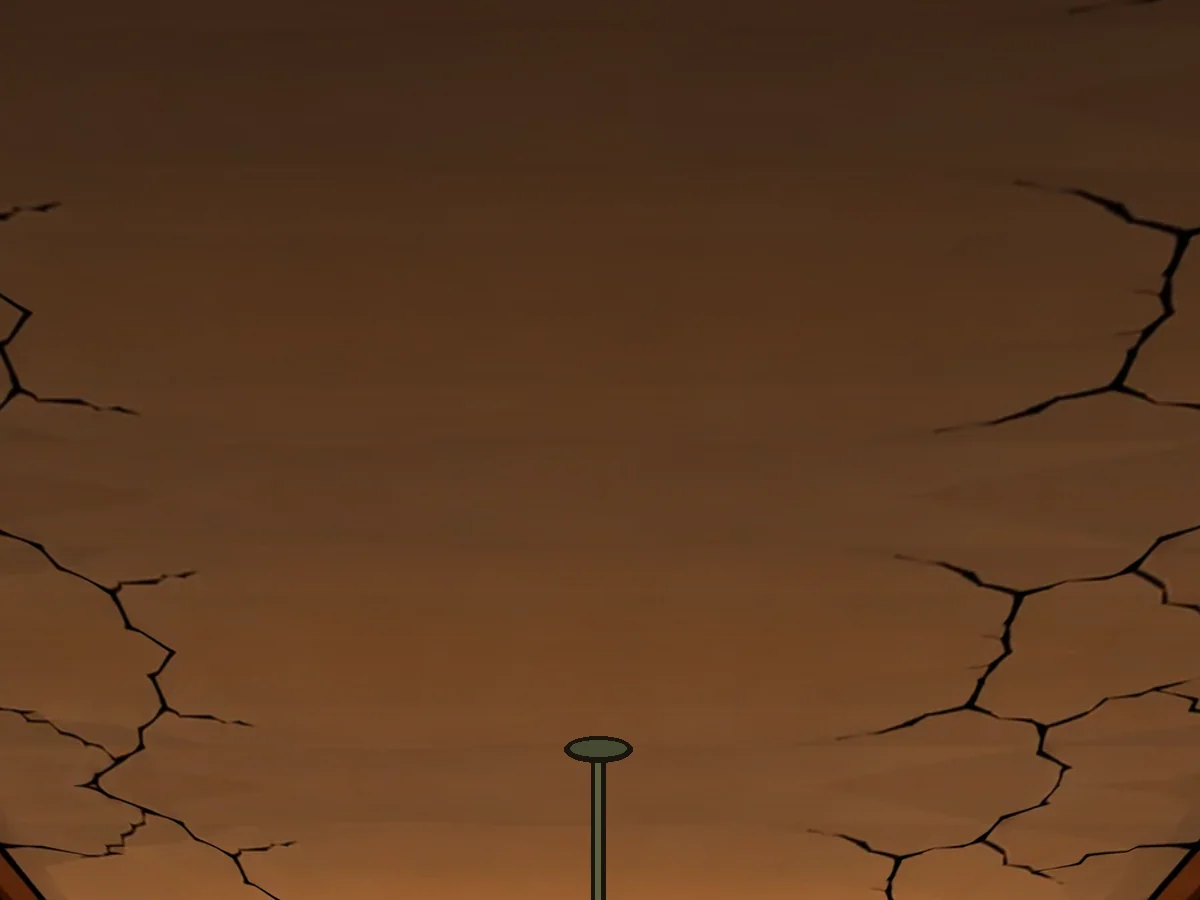
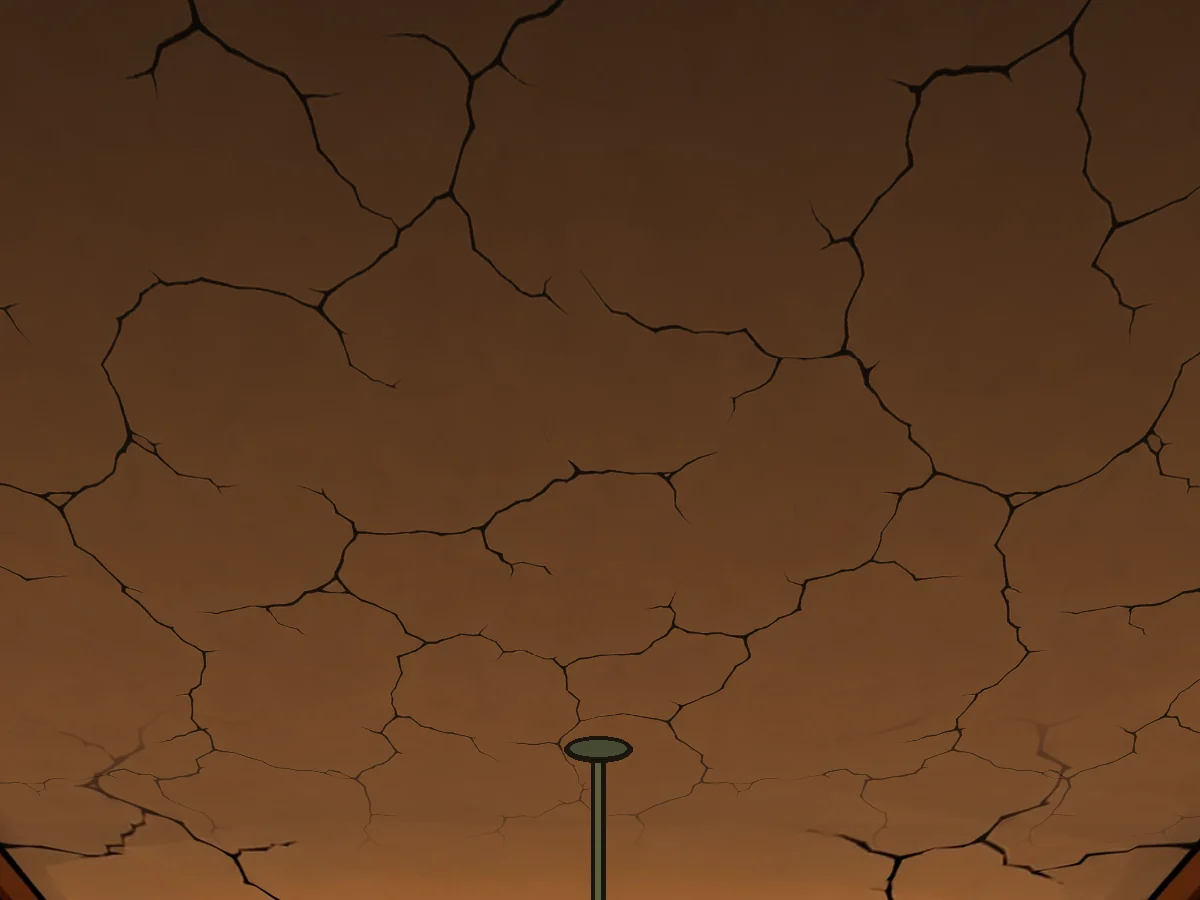
Shop ceiling: drawn plaster texture further up instead of mirrored cracks
tools/shop/source/ceiling-plaster.png (gpt-image-2, from the room's own ceiling band) is laid on the ceiling plane in
the room's perspective between the corner beams; the first band stays the exact mirrored continuation of the picture.

Claude-Session: https://claude.ai/code/session_01E3jaUxUo8xTQNwyakAWMq3

diff --git a/tools/shop/build-ceiling.py b/tools/shop/build-ceiling.py
@@ -4,7 +4,8 @@ top of the screen, so the room goes on upward instead of a hard edge.
 The room is drawn in one-point perspective: the ceiling is a plane whose edges (the two corner beams) run to the
 vanishing point VP. Scaling the picture about VP maps the ceiling onto itself, so every row above the picture is taken
 from the ceiling band of room.webp (rows 0..BAND) scaled about VP; the band is mirrored back and forth in log-distance,
-so there are no seams, and the seam with the picture is exact (row 0 maps onto itself); the band's own top-to-bottom shading is flattened. The ceiling darkens upward
+so there are no seams, and the seam with the picture is exact (row 0 maps onto itself); the band's own top-to-bottom shading is flattened; further up the plaster
+is a drawn tileable texture in the same perspective, so cracks do not repeat. The ceiling darkens upward
 (farther from the lamp), and the lamp cord goes on up to a mount.
 """
 import numpy as np
@@ -12,6 +13,10 @@ from PIL import Image, ImageDraw, ImageFilter
 
 SRC = "public/assets/shop/v2/room.webp"
 OUT = "public/assets/shop/v2/ceiling.webp"
+TEX = "tools/shop/source/ceiling-plaster.png"
+TEX_U, TEX_V = 1150.0, 1_250_000.0     # texture px per (screen px / distance to VP) and per (1 / distance): plaster scale
+LEFT_EDGE = (40.0, 0.777)            # inner edge of the left beam: x = a + b·y (y = row, negative above the picture)
+RIGHT_EDGE = (1150.0, -0.857)
 EXT = 900                   # px above the picture (room.webp is 1200×1680)
 VP = (568.0, 679.0)         # where the corner beams meet (measured on room.webp)
 BAND = 98                   # the ceiling rows above the front beam
@@ -55,6 +60,24 @@ raw = bilinear(room, sx, sy)
 fix = bilinear(flat, sx, sy)
 a = np.clip(w / L, 0, 1)[..., None]
 out = raw * (1 - a) + fix * a
+# past the first band the plaster is a drawn tileable texture (tools/shop/source/ceiling-plaster.png, generated from
+# the room's own ceiling) laid on the ceiling plane in the same perspective: no repeated cracks. Only between the inner
+# edges of the corner beams (lines through VP); colours matched to the band; faded in so the seam stays exact.
+tex = np.asarray(Image.open(TEX).convert("RGB")).astype(np.float32)
+band = room[:BAND, 300:900].reshape(-1, 3)
+tm, ts = tex.reshape(-1, 3).mean(0), tex.reshape(-1, 3).std(0)
+tex = (tex - tm) / ts * band.std(0) + band.mean(0)
+u = (xs - vx) / r * TEX_U
+v = TEX_V / r
+tx = np.mod(u, tex.shape[1] - 1)
+ty = np.mod(v, tex.shape[0] - 1)
+proj = bilinear(tex, tx, ty)
+left = LEFT_EDGE[0] + LEFT_EDGE[1] * y          # inner edges of the beams, x on row y
+right = RIGHT_EDGE[0] + RIGHT_EDGE[1] * y
+inside = np.clip(np.minimum(xs - left, right - xs) / 6.0, 0, 1)
+fade = np.clip((w / L - 0.4) / 1.2, 0, 1)
+tw = (inside * fade)[..., None]
+out = out * (1 - tw) + proj * tw
 # farther from the lamp: darker and a little cooler upward
 k = (np.abs(y) / EXT)[..., None]
 out = out * (1 - 0.55 * k ** 0.8)
